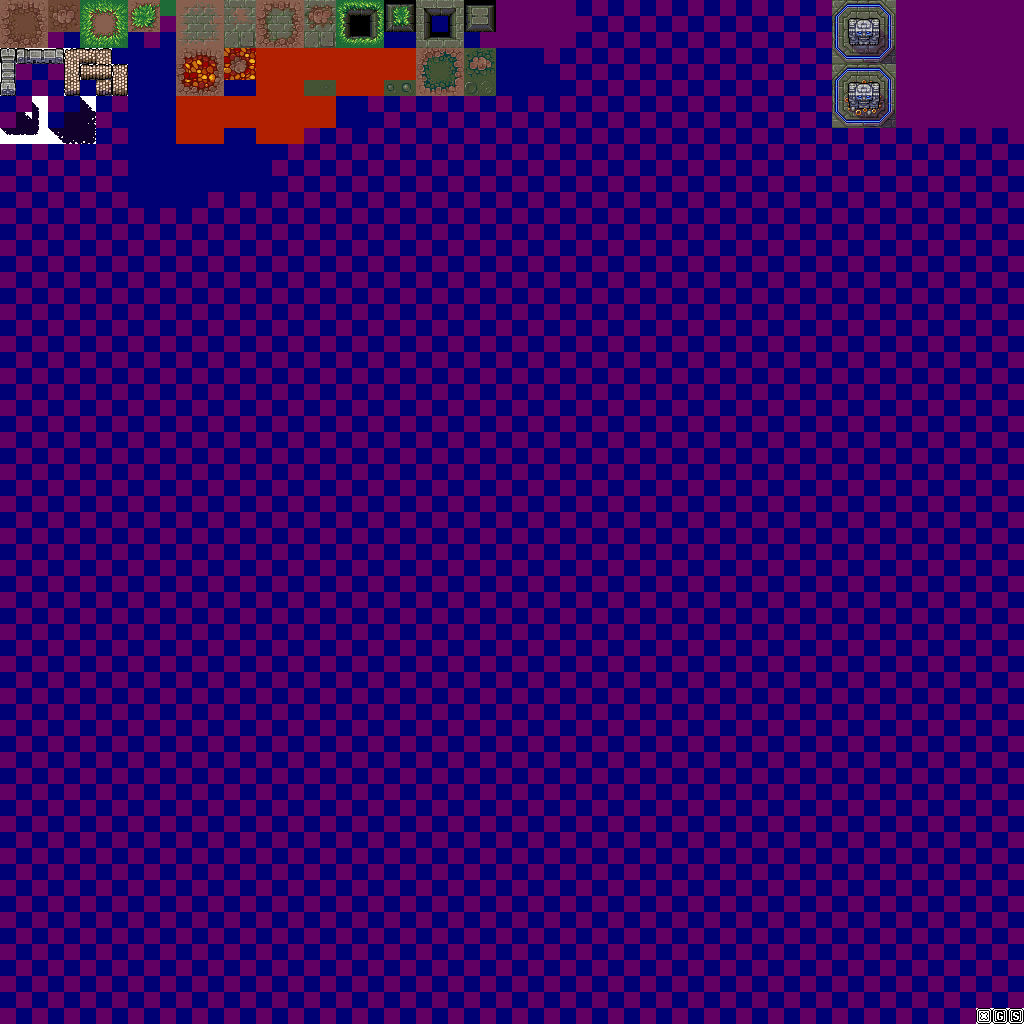
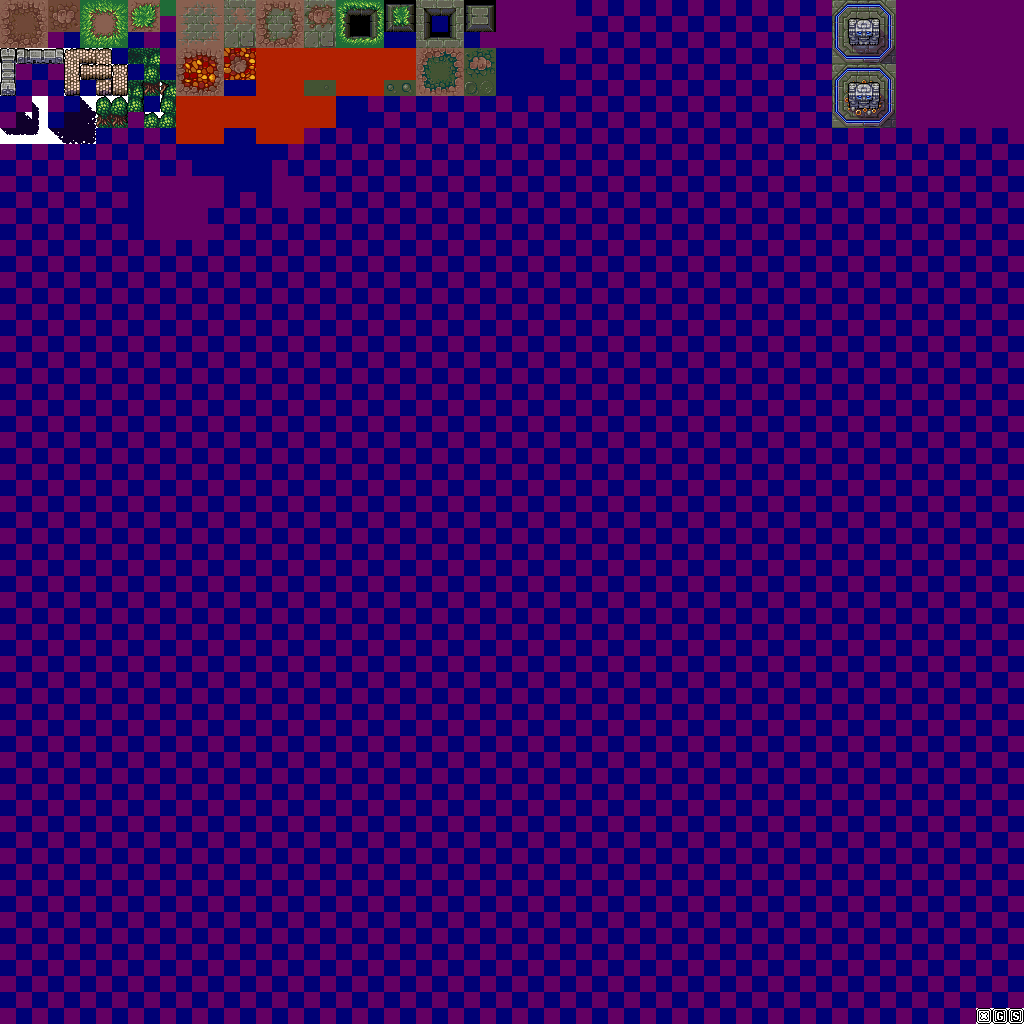
Added tiles for edges of level - jungle. All Typed as Wall.

Changed region(s): [[0.0938, 0.0312, 0.2188, 0.25], [0.2812, 0.1875, 0.3125, 0.2188], [0.25, 0.1562, 0.2812, 0.1875]]

diff --git a/Teotihuacan/Content/Levels/TileSet_Main.tsx b/Teotihuacan/Content/Levels/TileSet_Main.tsx
@@ -235,6 +235,8 @@
  <tile id="196" type="Wall"/>
  <tile id="197" type="Wall"/>
  <tile id="198" type="Wall"/>
+ <tile id="200" type="Wall"/>
+ <tile id="201" type="Wall"/>
  <tile id="203" type="FirePit" terrain="0,0,0,8">
   <objectgroup draworder="index">
    <object id="1" type="FirePit" x="8" y="8" width="8" height="8"/>
@@ -302,7 +304,7 @@
  <tile id="261" type="Wall"/>
  <tile id="262" type="Wall"/>
  <tile id="263" type="Wall"/>
- <tile id="265" type="Pit"/>
+ <tile id="265" type="Wall"/>
  <tile id="266" type="Pit"/>
  <tile id="267" type="FirePit" terrain="0,8,0,8">
   <objectgroup draworder="index">
@@ -370,8 +372,9 @@
  <tile id="324" type="Wall"/>
  <tile id="326" type="Wall"/>
  <tile id="327" type="Wall"/>
- <tile id="329" type="Pit"/>
- <tile id="330" type="Pit"/>
+ <tile id="328" type="Wall"/>
+ <tile id="329" type="Wall"/>
+ <tile id="330" type="Wall"/>
  <tile id="331" type="FirePit" terrain="0,8,0,0">
   <objectgroup draworder="index">
    <object id="1" type="FirePit" x="8" y="0" width="8" height="8"/>
@@ -431,8 +434,11 @@
  <tile id="375" type="RemoveMe"/>
  <tile id="386" terrain=",,5,"/>
  <tile id="389" terrain=",,6,"/>
+ <tile id="390" type="Wall"/>
+ <tile id="391" type="Wall"/>
+ <tile id="392" type="Wall"/>
  <tile id="393" type="Pit"/>
- <tile id="394" type="Pit"/>
+ <tile id="394" type="Wall"/>
  <tile id="436" type="RemoveMe"/>
  <tile id="437" type="RemoveMe"/>
  <tile id="438" type="RemoveMe"/>
@@ -440,6 +446,10 @@
  <tile id="450" terrain="5,,5,"/>
  <tile id="452" terrain="6,6,6,6"/>
  <tile id="453" terrain="6,,6,"/>
+ <tile id="454" type="Wall"/>
+ <tile id="455" type="Wall"/>
+ <tile id="457" type="Wall"/>
+ <tile id="458" type="Wall"/>
  <tile id="500" type="RemoveMe"/>
  <tile id="501" type="RemoveMe"/>
  <tile id="502" type="RemoveMe"/>
